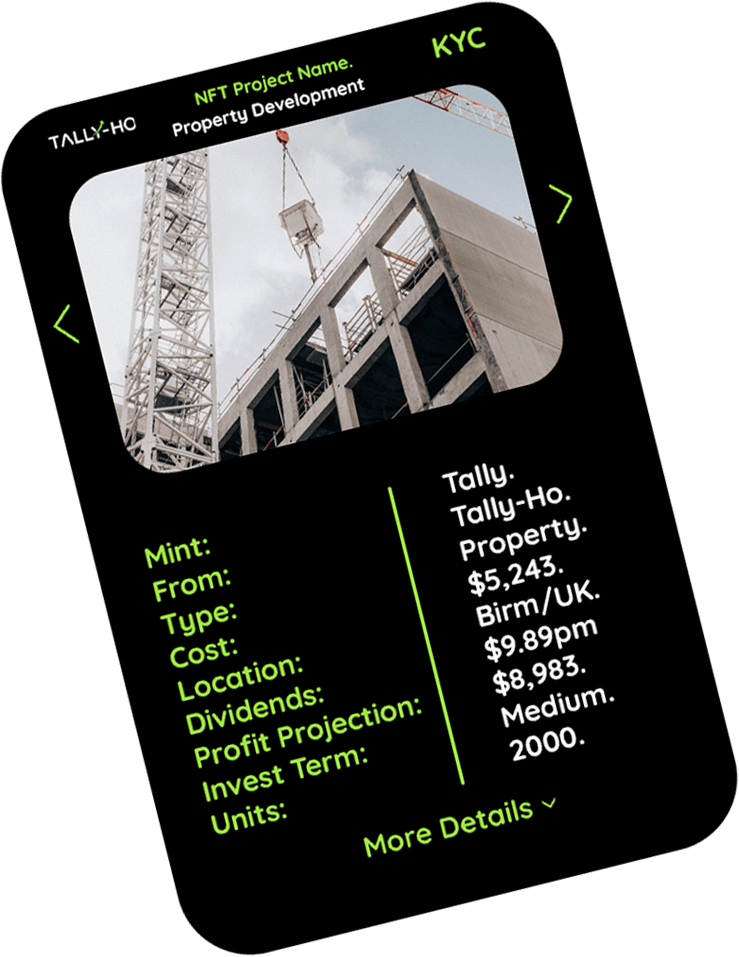
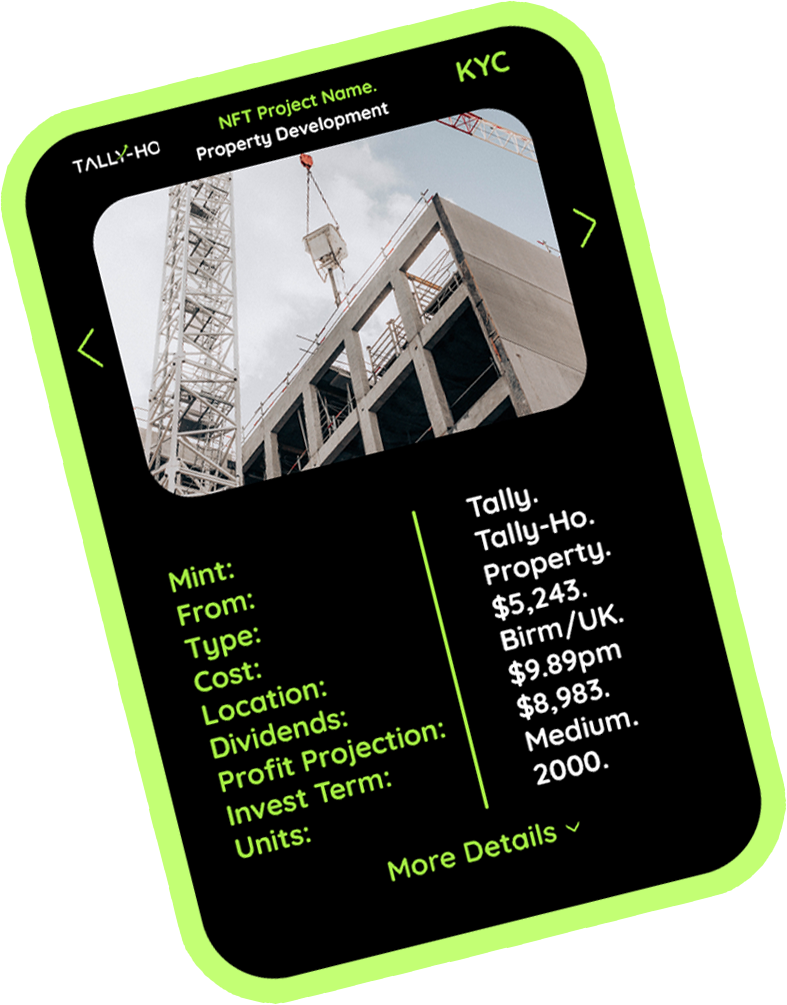
updated images

Changed region(s): [[0.0, 0.0, 1.0, 1.0], [0.5291, 0.5152, 0.5602, 0.6061]]

diff --git a/src/containers/NFTMarketPage/Showcase.jsx b/src/containers/NFTMarketPage/Showcase.jsx
@@ -15,7 +15,7 @@ const Showcase = () => {
                         <img
                             src={card1}
                             alt='card1'
-                            className='w-60 lg:max-w-[15rem] xl:max-w-xs'
+                            className='w-60 sm:w-full lg:max-w-[15rem] xl:max-w-xs'
                         />
                         <span className='absolute hidden -rotate-12 md:block lg:-bottom-1 lg:right-[12%] xl:bottom-10 xl:right-[20%]'>
                             Property
@@ -25,7 +25,7 @@ const Showcase = () => {
                         <img
                             src={card2}
                             alt='card2'
-                            className='z-10 w-60 lg:max-w-[12rem] xl:max-w-[18rem]'
+                            className='z-10 w-60 sm:w-full lg:max-w-[12rem] xl:max-w-[18rem]'
                         />
                         <span className='hidden text-sm md:block xl:text-base'>
                             Back film / media projects.
@@ -35,7 +35,7 @@ const Showcase = () => {
                         <img
                             src={card3}
                             alt='card3'
-                            className='w-60 lg:max-w-[15rem] xl:max-w-xs'
+                            className='w-60 sm:w-full lg:max-w-[15rem] xl:max-w-xs'
                         />
                         <span className='absolute hidden rotate-12 text-sm md:block lg:left-[5%] lg:-bottom-1 xl:left-[15%] xl:bottom-8 xl:text-base'>
                             Business investments.
